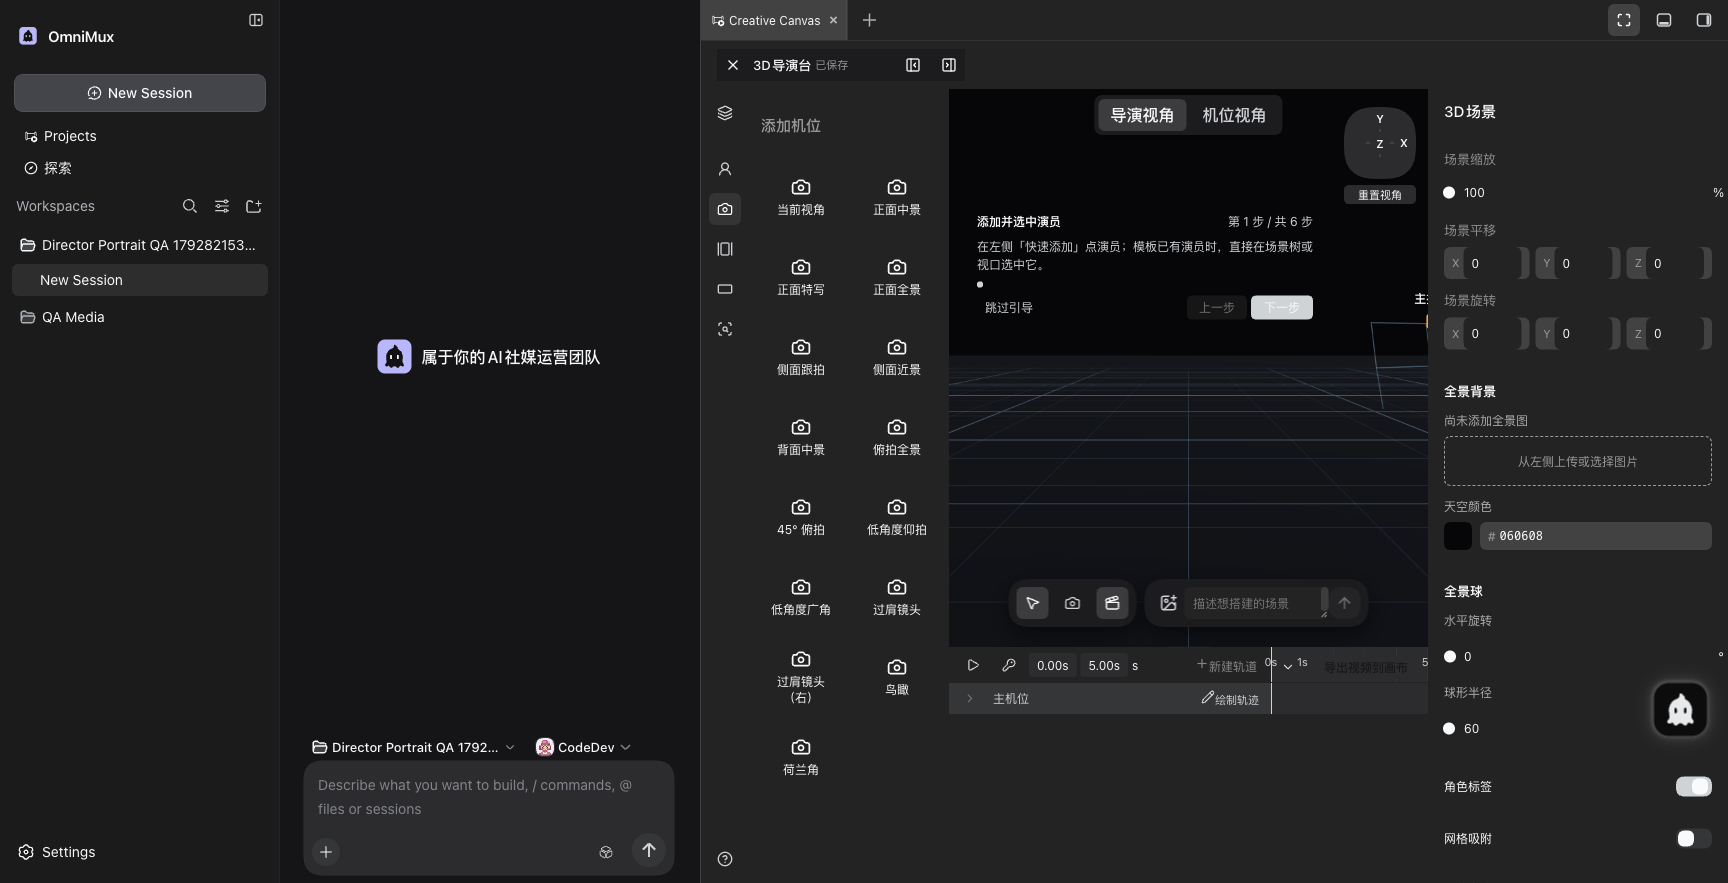
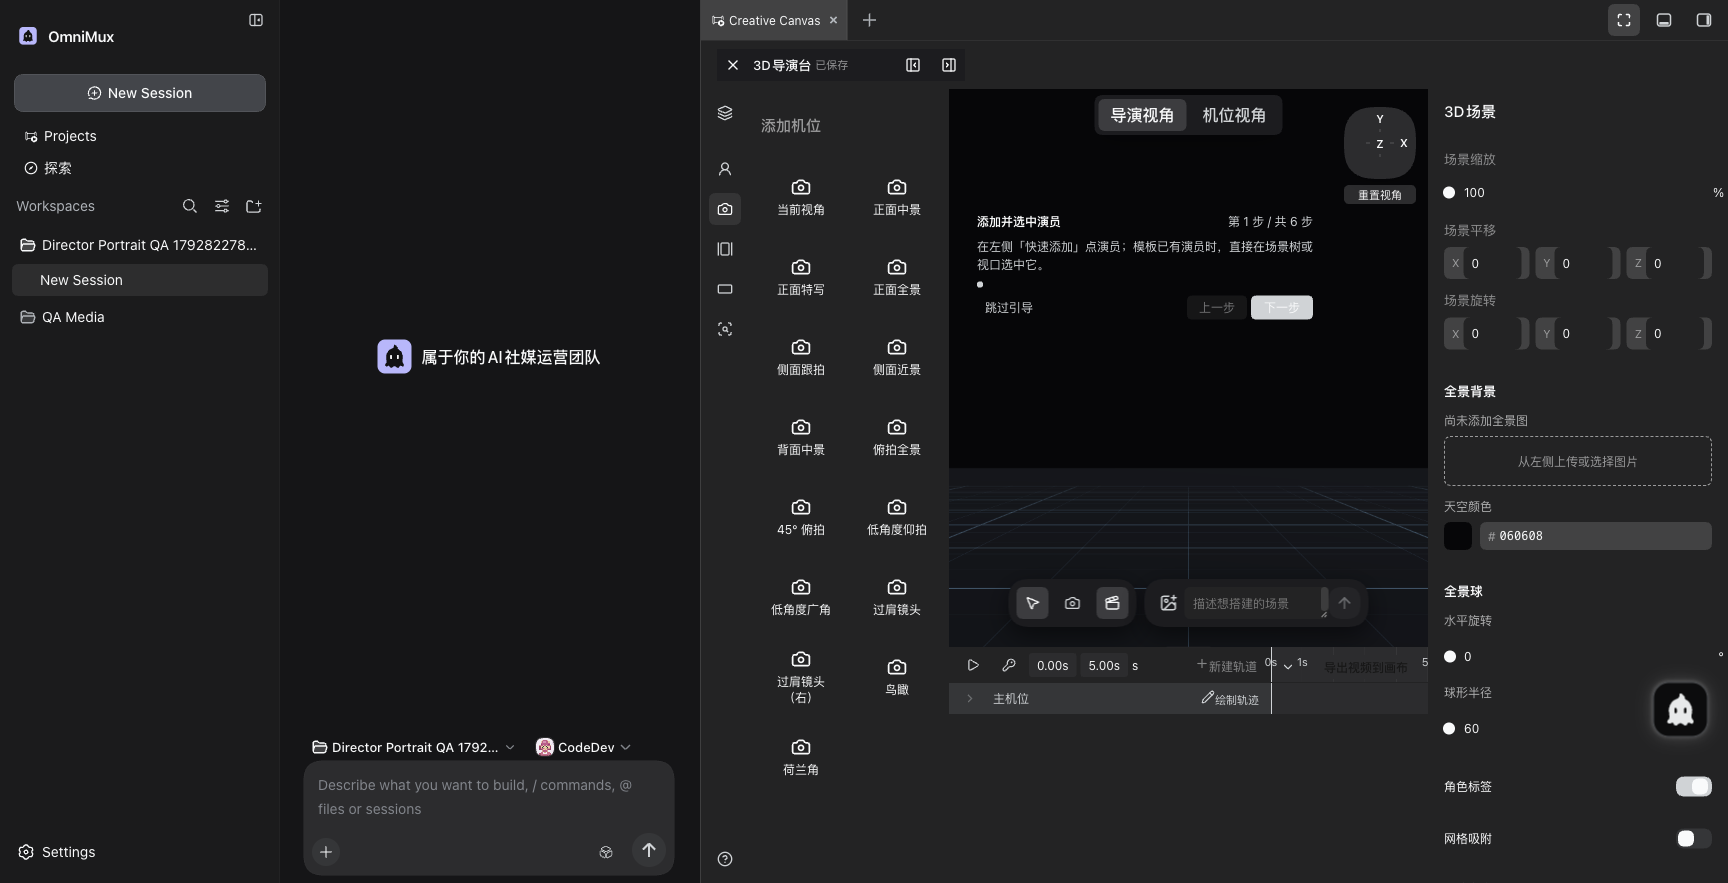
fix(workflow): 按独立评审收紧测量口径与测试强度 (#3682)
- 视口浮动工具条纳入外观集合（#3646 P1-6 点名），只排除 3D 画布与瞬时提示浮层：
  消除「那里的偏差永远测不到」的盲区；实测该工具条本身无偏差
- 边框改为逐边判定可见性（该边宽度 > 0），与注释一致，避免 0 宽边的 border-color 假阳性
- 圆角保留原始计算值，50% 不再被记成 50px；固定常量 48/248/300/236 精确命中，
  只有派生比较（中列 = 栅格宽 − 548）保留 1px 取整容差
- 契约测试补两条真机证据断言：时间轴槽位父节点是栅格、gridColumn/Row = 2、
  宽度与左边界等于中列、栅格列为 248/中列/300；外观三集合 ⊆ 允许集合
- 证据与文档同步：新口径实测（acceptance-3289-cIaSlR）与默认 8 条（gF0b8h），
  README 说明 before-fix JSON 属旧口径、spec §5.5 修正 diff 范围

Changed region(s): [[0.5312, 0.3975, 0.8438, 0.5198]]

diff --git a/specs/3682-director-layout-measure.spec.md b/specs/3682-director-layout-measure.spec.md
@@ -25,9 +25,10 @@
     - `.director-sequencer` 高度 = 236，且 `rect.width` = 中列宽度；
     - `[data-director-property-inspector]` `scrollHeight >= clientHeight` 且 `overflow-y: auto`；
     - 字号：**直接含可见文字**的元素 `font-size` 去重 ⊆ {11,12,13,15}px（容器继承到的 16px 不代表可见文本）；
-    - 圆角：四角非 0 的 `border-radius` 去重 ⊆ {4,6,8,10,12,999}px；
-    - 边框色：**可见**边框（任一边宽度 > 0、颜色非透明、且颜色 ≠ 自身背景色）颜色去重 ⊆ `--dsw-alias-border` 解析值——与背景同色的描边画不出来，不属于边框色设计面；
-    - 测量范围限导演台 chrome：排除 3D 视口及其悬浮控件（`.director-viewport-shell` / `-dock` / `-notice`），那是三维场景不是面板规范。
+    - 圆角：四角非 0 的 `border-radius` 去重 ⊆ {4,6,8,10,12,999}px；保留原始计算值（`50%` 不会被伪装成 `50px`）；
+    - 边框色：**逐边**判定可见性——该边宽度 > 0、颜色非透明、且颜色 ≠ 自身背景色；颜色去重 ⊆ `--dsw-alias-border` 解析值（与背景同色的描边画不出来，不算边框色）；
+    - 测量范围限导演台 chrome：**包含**视口浮动工具条（#3646 P1-6 点名的按钮/边框/圆角/字号），只排除 3D 画布本身与瞬时提示浮层（后者只在引导期间出现，会让集合抖动）；
+    - 固定常量（48/248/300/236）精确命中，只有「中列 = 栅格宽 − 548」这类派生比较允许 1px 取整误差。
   - 证据：`layout-thresholds.json`（阈值、实测、逐项失败原因、越界元素出处）+ `layout-thresholds.png`（展开时间轴后的整屏截图）+ `assertions.json`。
 - 不改原 8 条断言语义、不改装配与清理逻辑。
 
@@ -56,11 +57,11 @@
 
 ## 5. 验收
 
-1. `DIRECTOR_MEASURE=1 DIRECTOR_REAL_UI=1 DIRECTOR_EGO_BROWSER=<ego-browser> DIRECTOR_FFMPEG=<ffmpeg> node scripts/director-acceptance-3289.mjs` 退出码 0，断言 9 条（原 8 条 + `layout-thresholds`），实测值落 `layout-thresholds.json` 与 `layout-thresholds.png`。**已达成**：`acceptance-3289-VWtNRg`，实测 48/248/300/479、时间轴 236×479（x=949 与中列对齐）、inspector 1074≥794 且 overflow auto、字号 {11,12,13,15}、圆角 {4,6,8,10,12,999}、边框色只有 `rgb(249,250,251)`。
-2. 不开开关时退出码 0、断言仍为原 8 条。**已达成**：`acceptance-3289-21QUN6`，`expected-assertions.json` 逐字为原 8 条。
+1. `DIRECTOR_MEASURE=1 DIRECTOR_REAL_UI=1 DIRECTOR_EGO_BROWSER=<ego-browser> DIRECTOR_FFMPEG=<ffmpeg> node scripts/director-acceptance-3289.mjs` 退出码 0，断言 9 条（原 8 条 + `layout-thresholds`），实测值落 `layout-thresholds.json` 与 `layout-thresholds.png`。**已达成**：`acceptance-3289-z7ej05`（含视口工具条口径），实测 48/248/300/479、时间轴 236×479（x=949 与中列对齐）、inspector 可滚动、字号 {11,12,13,15}、圆角 {4,6,8,10,12,999}、边框色只有 `rgb(249,250,251)`。
+2. 不开开关时退出码 0、断言仍为原 8 条。**已达成**：`acceptance-3289-eWrvTh`，`expected-assertions.json` 逐字为原 8 条。
 3. 实测值与 #3646 §五 规格逐项一致；偏离在 §2.2 列出并已修复，未调低任何阈值。
-4. `pnpm --filter omnimux-workflow test`（2947/2947）、`typecheck`、`node scripts/build-director.mjs --check`、`node --test scripts/verify-anti-slop.test.mjs`（3/3）、`pnpm verify:stages` 全绿。**已达成**。
-5. `git diff` 只落在 `scripts/`、`specs/` 与 `plugins/omnimux-workflow/src/director`。
+4. `pnpm --filter omnimux-workflow test`（2954/2954）、`typecheck`、`node scripts/build-director.mjs --check`、`node --test scripts/verify-anti-slop.test.mjs`（3/3）、`pnpm verify:stages` 全绿。**已达成**。
+5. `git diff` 落在 `scripts/`、`specs/`、`plugins/omnimux-workflow/src/director`、`plugins/omnimux-workflow/tests/` 与 `docs/evidence/director-layout-3682/`。
 
 ## 6. 非目标
 

diff --git a/docs/evidence/director-layout-3682/README.md b/docs/evidence/director-layout-3682/README.md
@@ -16,7 +16,7 @@ node scripts/director-acceptance-3289.mjs
 | `layout-thresholds.json` | 修复后一次通过的实测值（阈值、实测、逐项失败为空、越界元素出处） |
 | `layout-thresholds.png` | 同一时刻整屏截图：时间轴落在中列（x=949 起，宽 479），不再铺满整行 |
 | `measurement-result.json` | 该次运行的断言清单与 `head`（9 条：原 8 条 + `layout-thresholds`） |
-| `before-fix-layout-thresholds.json` | 修复前同一测量的输出：4 条失败（时间轴宽度、字号 15.21、圆角 50%、边框色非 token） |
+| `before-fix-layout-thresholds.json` | 修复**前**一次测量的输出：4 条失败（时间轴宽度、字号 15.21、圆角 50%、边框色非 token）。注意它是**旧口径**产物（当时按元素判定边框可见性、圆角按数值取整），因此它列的引导页实心按钮（border == background == accent）在现在的口径下会被正确排除；它只用于说明当时抓到的偏差，不是当前代码可复现的对照 |
 | `default-expected-assertions.json` | 不设 `DIRECTOR_MEASURE` 时的断言清单，逐字为原 8 条 |
 
 ## 实测（修复后）
@@ -28,6 +28,7 @@ node scripts/director-acceptance-3289.mjs
 
 ## 口径说明
 
-- 测量范围限导演台 chrome，排除 3D 视口与其悬浮控件（`.director-viewport-shell/-dock/-notice`）。
+- 测量范围限导演台 chrome，**包含**视口浮动工具条（#3646 P1-6 点名的按钮/边框/圆角/字号）；只排除 3D 画布本身与瞬时提示浮层。
 - 字号只统计「直接含可见文字」的元素，容器继承到的 16px 不代表可见文本。
-- 边框只统计可见边框：颜色非透明、且不等于自身背景色（实心主按钮的同色 accent 描边画不出来，不算边框色）。
+- 边框**逐边**判定可见性：该边宽度 > 0、颜色非透明、且不等于自身背景色（实心主按钮的同色 accent 描边画不出来，不算边框色）。
+- 圆角保留原始计算值（`50%` 不会被记成 `50px`）；固定常量 48/248/300/236 精确命中，只有派生比较允许 1px 取整误差。
